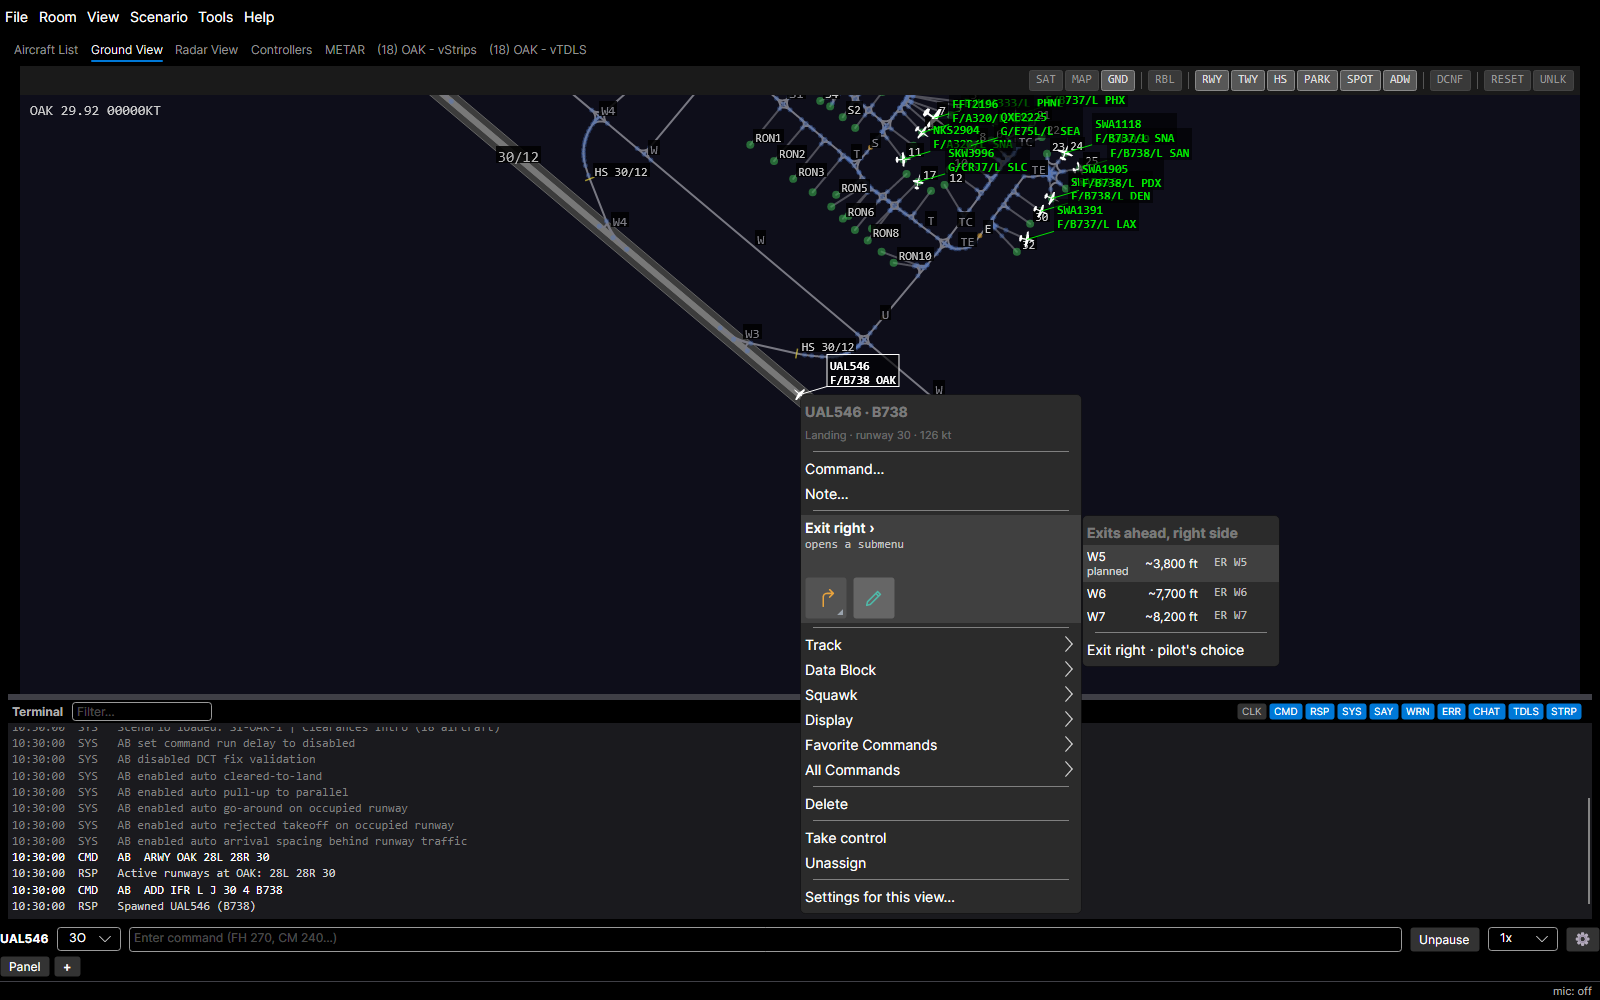
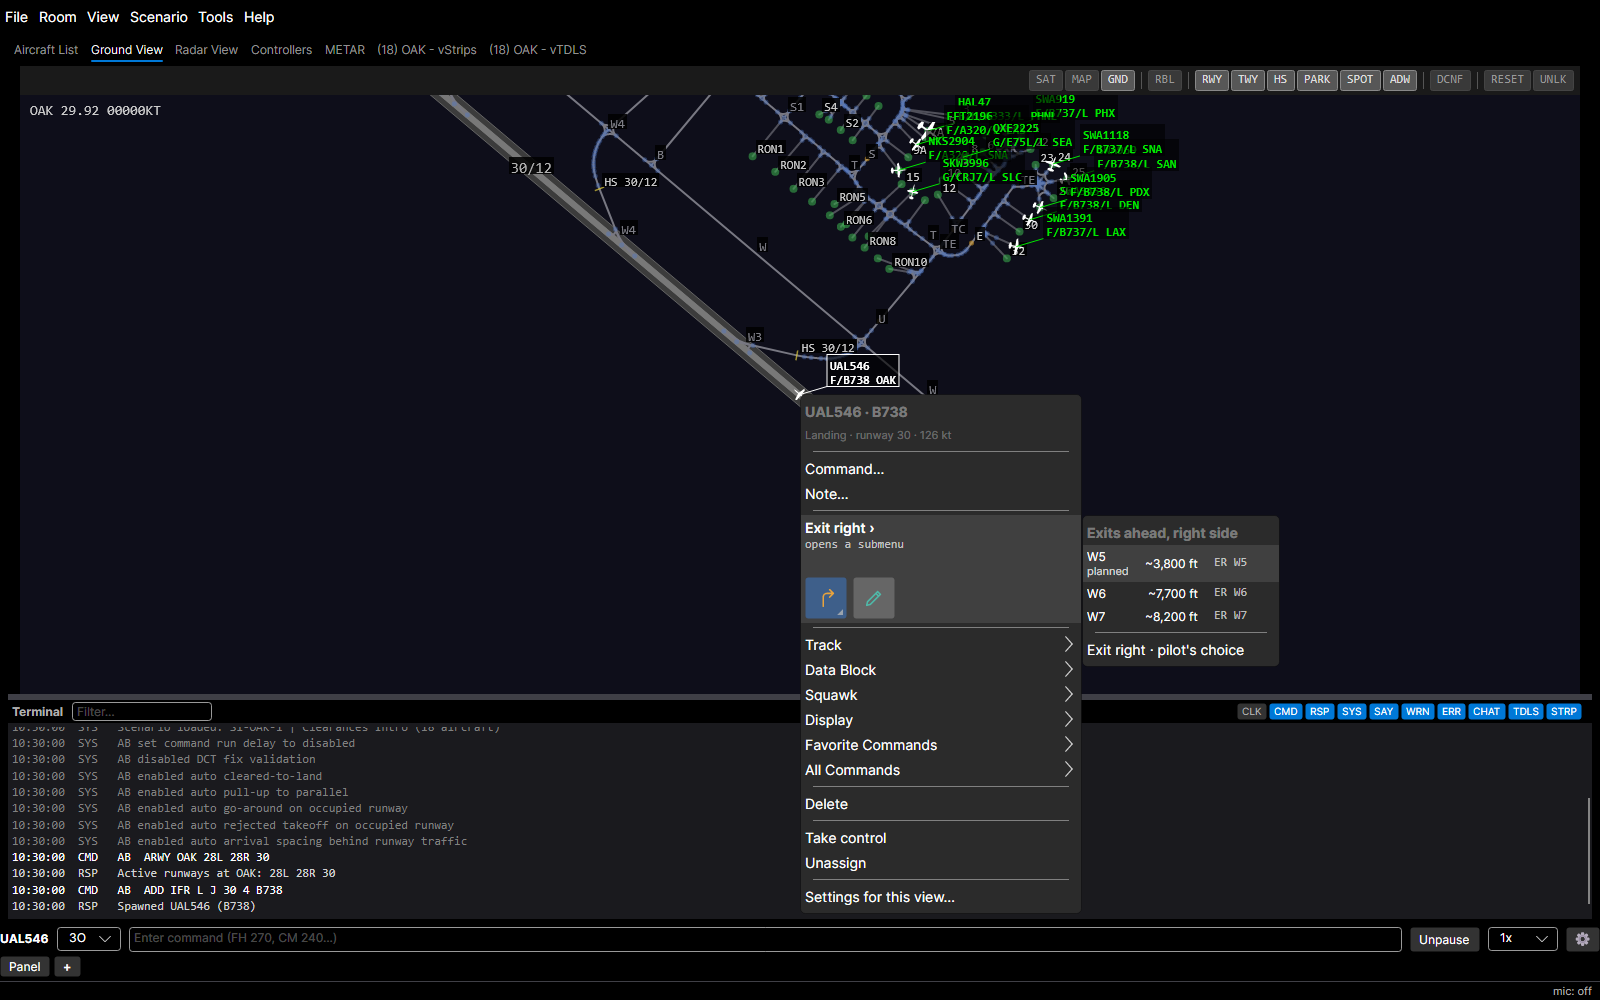
docs: retake the exits-ahead showcase shot; add a Taxi to runway scene
The exits flyout now opens beside the aircraft menu, so the showcase
image is re-captured. A new GuideCapture scene, whats-new-taxi-to-runway,
opens Taxi to runway (YAAT-460) at KOAK stand 3 with runway 30 active;
its image is taken once the row overlap (YAAT-557) is fixed.

diff --git a/tools/Yaat.GuideCapture/Scenes/WhatsNewTaxiToRunwayScene.cs b/tools/Yaat.GuideCapture/Scenes/WhatsNewTaxiToRunwayScene.cs
@@ -1,0 +1,135 @@
+using Avalonia.Controls;
+using Avalonia.Threading;
+using Yaat.Client.ContextMenus;
+using Yaat.Client.Models;
+using Yaat.Client.ViewModels;
+using Yaat.Client.Views.Ground;
+using Yaat.GuideCapture.Capture;
+
+namespace Yaat.GuideCapture.Scenes;
+
+// Feature showcase > Taxi to runway. The OAK scenario's ground view with the
+// room's active runways set to 30 and a B738 departure spawned at stand 3, its
+// menu opened by a right-click on it, All Commands opened and Taxi to runway
+// opened: runway 30's group lists the full-length entry, then each
+// intersection long enough for the type with the runway it leaves, the
+// full-length and nearest usable rows highlighted, then Other runways. The
+// nearest usable row is pointed at, which previews its route, and its
+// For departure / Hold short choices opened beside it. The view is zoomed in
+// with the aircraft near its upper left so the cascade fits to its right, and
+// it and the selection are put back once the capture is taken.
+internal sealed class WhatsNewTaxiToRunwayScene : ScenarioSceneBase
+{
+    private const string Airport = "OAK";
+    private const string Runway = "30";
+    private const string AddCommand = "ADD IFR L J @3 B738";
+    private const double ZoomFactor = 3;
+
+    // Where the aircraft sits in the view, as fractions of its width and height.
+    private const double AircraftX = 0.12;
+    private const double AircraftY = 0.15;
+
+    private static readonly TimeSpan Timeout = TimeSpan.FromSeconds(10);
+
+    private MainViewModel? _vm;
+    private GroundViewZoom? _zoom;
+
+    public override string Name => "whats-new-taxi-to-runway";
+
+    protected override int TabIndex => 1;
+
+    protected override async Task OnSceneReadyAsync(Window window, MainViewModel vm, CaptureContext ctx)
+    {
+        await SceneActions.AnswerActiveRunwaysPromptAsync(vm, Timeout);
+        _vm = vm;
+        await SetActiveRunwayAsync(vm);
+        AircraftModel departure = await SceneActions.SpawnAsync(vm, AddCommand, Timeout);
+        string callsign = departure.Callsign;
+        await SceneActions.WaitUntilAsync(
+            () => SceneActions.Find(vm, callsign).IsOnGround && (vm.Ground.Layout is not null),
+            Timeout,
+            $"{callsign} on its stand and the ground layout"
+        );
+        Console.WriteLine($"  {callsign} at stand 3, assigned runway '{departure.AssignedRunway}'");
+        _zoom = GroundViewZoom.Apply(vm.Ground, departure.Position, ZoomFactor);
+        PlaceAircraftUpperLeft(window, vm, departure);
+
+        ContextMenu menu = await SceneActions.OpenAircraftMenuAsync(window, vm, departure, Timeout);
+        MenuItem allCommands =
+            menu.Items.OfType<MenuItem>().FirstOrDefault(m => (m.Header as string) == AircraftMenuBuilder.AllCommandsHeader)
+            ?? throw new InvalidOperationException($"The menu of {callsign} has no {AircraftMenuBuilder.AllCommandsHeader}.");
+        await OpenAsync(window, allCommands, AircraftMenuBuilder.AllCommandsHeader);
+        MenuItem taxiToRunway = await SceneActions.OpenSubmenuAsync(allCommands, "Taxi to runway", Timeout);
+
+        List<(MenuItem Item, MenuCommandRow Row)> rows =
+        [
+            .. taxiToRunway.Items.OfType<MenuItem>().Where(m => m.Header is MenuCommandRow).Select(m => (m, (MenuCommandRow)m.Header!)),
+        ];
+        Console.WriteLine(
+            $"  {callsign} Taxi to runway: "
+                + string.Join(" | ", rows.Select(r => $"{r.Row.Name}{(r.Row.IsHighlighted ? " [hl]" : "")} {r.Row.Detail}"))
+        );
+        MenuItem shown = ShownRow(callsign, rows);
+        SceneActions.PointAt(window, shown);
+        await OpenAsync(window, shown, ((MenuCommandRow)shown.Header!).Name);
+    }
+
+    private static async Task SetActiveRunwayAsync(MainViewModel vm)
+    {
+        vm.SelectedAircraft = null;
+        Dispatcher.UIThread.RunJobs();
+        vm.CommandText = $"ARWY {Airport} {Runway}";
+        await vm.SendCommandCommand.ExecuteAsync(null);
+        await SceneActions.WaitUntilAsync(
+            () => vm.RoomActiveRunways.TryGetValue(Airport, out IReadOnlyList<string>? ends) && ends.SequenceEqual([Runway]),
+            Timeout,
+            $"{Airport}'s active runways to be {Runway}"
+        );
+    }
+
+    // Moves the view so the aircraft sits near its upper left, leaving the
+    // menu and its submenus room to open to its right and below.
+    private static void PlaceAircraftUpperLeft(Window window, MainViewModel vm, AircraftModel aircraft)
+    {
+        SceneActions.RenderOnce(window);
+        GroundCanvas canvas = SceneActions.ShownCanvas<GroundCanvas>(window) ?? throw new InvalidOperationException("No ground view is shown.");
+        (float x, float y) = canvas.Viewport.LatLonToScreen(aircraft.Position.Lat, aircraft.Position.Lon);
+        float width = canvas.Viewport.PixelWidth;
+        float height = canvas.Viewport.PixelHeight;
+        (double lat, double lon) = canvas.Viewport.ScreenToLatLon(x + (float)((0.5 - AircraftX) * width), y + (float)((0.5 - AircraftY) * height));
+        vm.Ground.ViewCenterLat = lat;
+        vm.Ground.ViewCenterLon = lon;
+        Dispatcher.UIThread.RunJobs();
+        SceneActions.RenderOnce(window);
+    }
+
+    // The nearest usable row: the second highlighted row (the first is the
+    // full-length entry), else the first highlighted, else the first row.
+    private static MenuItem ShownRow(string callsign, List<(MenuItem Item, MenuCommandRow Row)> rows)
+    {
+        List<MenuItem> highlighted = [.. rows.Where(r => r.Row.IsHighlighted && (r.Item.Items.Count > 0)).Select(r => r.Item)];
+        return highlighted.Skip(1).FirstOrDefault()
+            ?? highlighted.FirstOrDefault()
+            ?? rows.Select(r => r.Item).FirstOrDefault(i => i.Items.Count > 0)
+            ?? throw new InvalidOperationException($"Taxi to runway of {callsign} lists no runway entry with choices.");
+    }
+
+    // Opens the item's submenu and waits until its rows are laid out and its
+    // host is arranged, as SceneActions.OpenSubmenuAsync does for an item it
+    // finds by a string header.
+    private static async Task OpenAsync(Window window, MenuItem item, string what)
+    {
+        item.Open();
+        await SceneActions.WaitUntilAsync(() => item.IsSubMenuOpen && SceneActions.AreItemsLaidOut(item.Items), Timeout, $"submenu '{what}' to open");
+        window.UpdateLayout();
+        Dispatcher.UIThread.RunJobs();
+    }
+
+    public override void AfterCapture()
+    {
+        _zoom?.Restore();
+        _zoom = null;
+        _vm?.SelectedAircraft = null;
+        _vm = null;
+    }
+}

diff --git a/tools/Yaat.GuideCapture/Capture/SceneCatalog.cs b/tools/Yaat.GuideCapture/Capture/SceneCatalog.cs
@@ -72,6 +72,7 @@ internal static class SceneCatalog
         new WhatsNewPointMenuScene(),
         new WhatsNewPickerScene(),
         new WhatsNewExitsAheadScene(),
+        new WhatsNewTaxiToRunwayScene(),
     ];
 
     // The scenes a run captures: the one named by --scene (case-insensitive),
